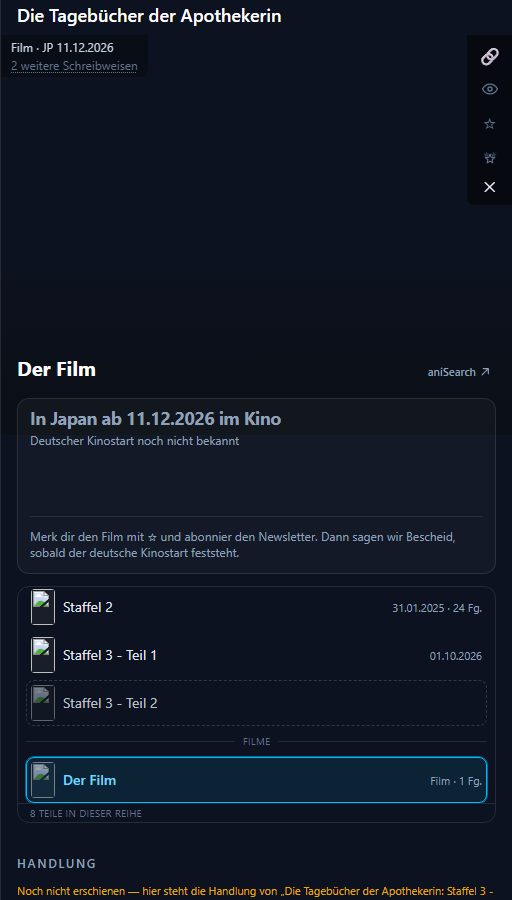
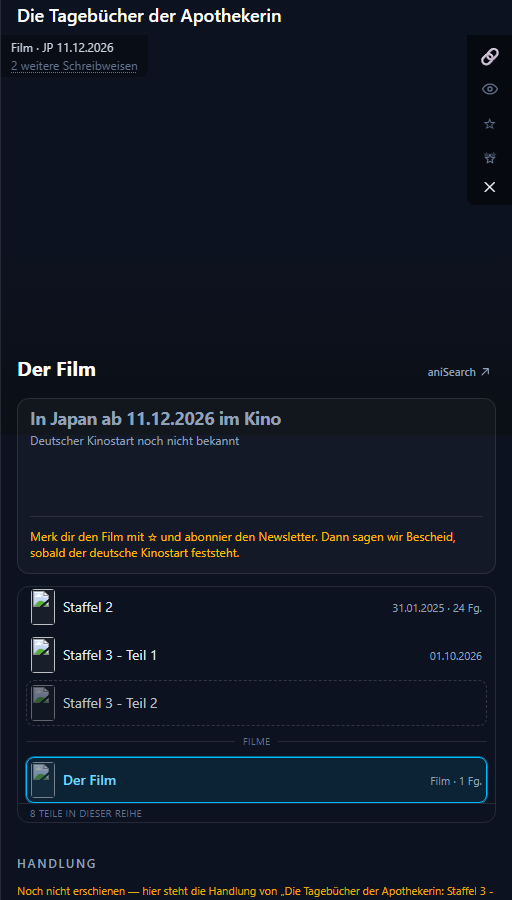
Kino-Kasten: Favoriten-Hinweis in Gelb wie die übrigen Stern-Texte

Changed region(s): [[0.0625, 0.5911, 0.875, 0.6222]]

diff --git a/web/src/components/DetailPanel.tsx b/web/src/components/DetailPanel.tsx
@@ -742,7 +742,15 @@ function AntwortKasten({
       </div>
       {pillen.length === 0 && wegeHinweis && (
         <div className="mt-auto shrink-0 border-t border-slate-200/70 pt-2.5 dark:border-white/10">
-          <p className="flex min-h-[2.1rem] items-center text-xs text-slate-500 dark:text-slate-400">
+          {/* Beim Kinofilm ist der Satz ein Favoriten-Hinweis und trägt deren Gelb (Daniel, 13.09.2026). */}
+          <p
+            className={[
+              'flex min-h-[2.1rem] items-center text-xs',
+              antwort.art === 'kino'
+                ? 'text-amber-600 dark:text-amber-400'
+                : 'text-slate-500 dark:text-slate-400',
+            ].join(' ')}
+          >
             {wegeHinweis}
           </p>
         </div>
